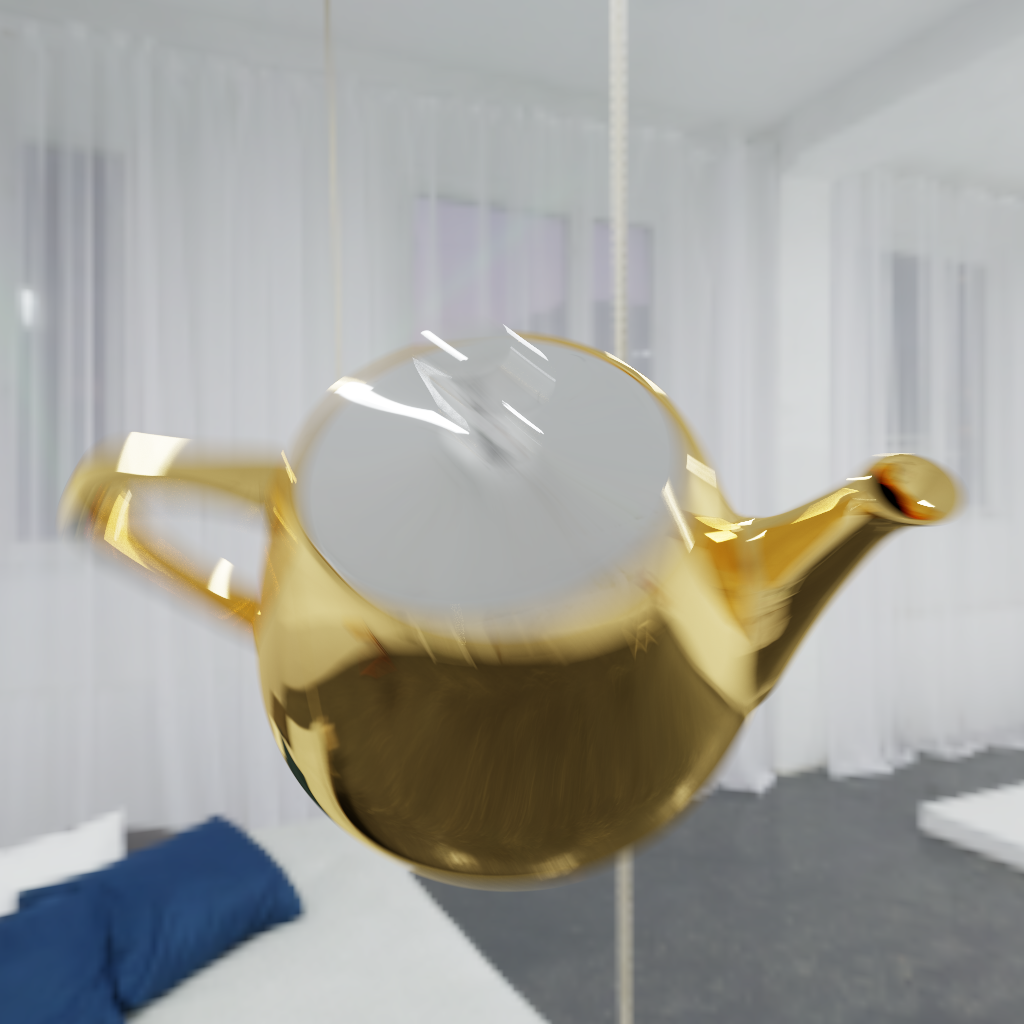
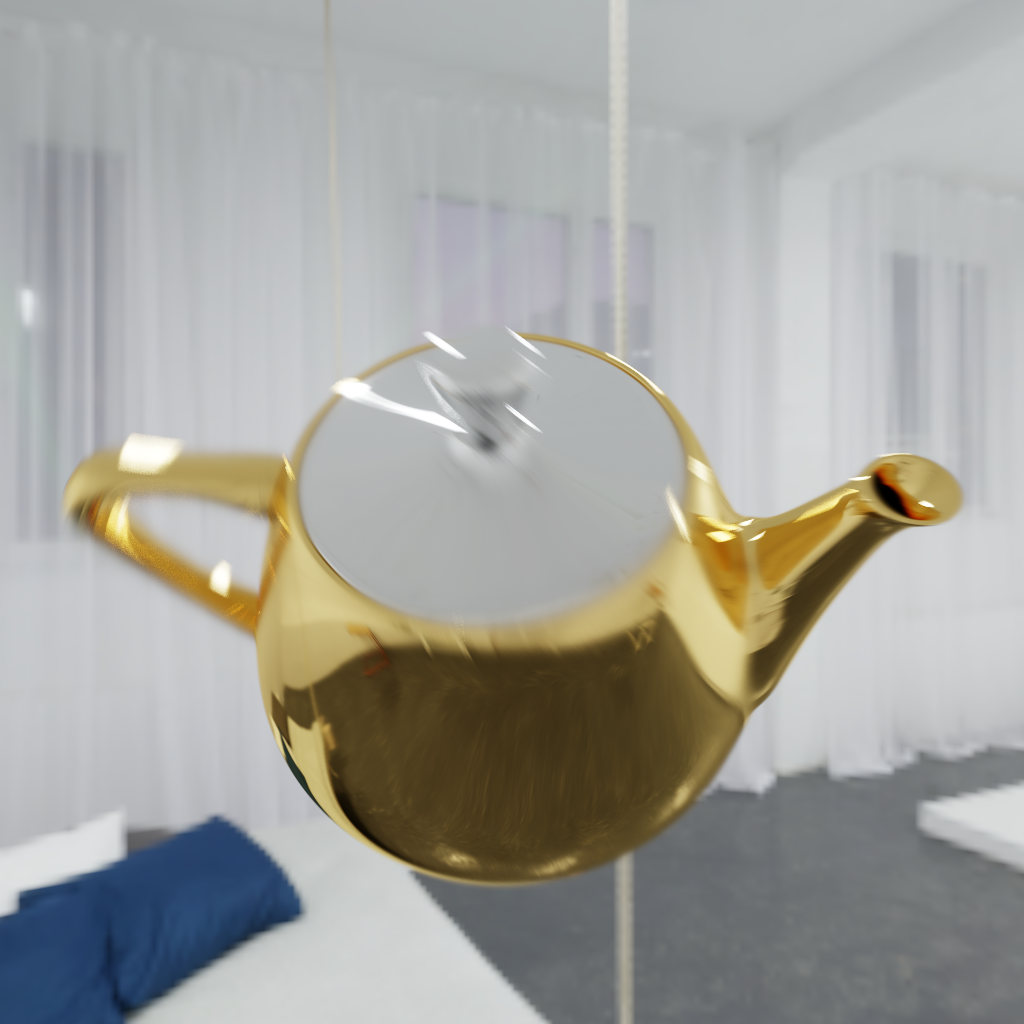
add camera curve

diff --git a/src/scene/camera.cpp b/src/scene/camera.cpp
@@ -2,6 +2,8 @@
 // Created by Mike on 2021/12/8.
 //
 
+#include <random>
+
 #include <scene/scene.h>
 #include <scene/film.h>
 #include <scene/filter.h>
@@ -45,22 +47,89 @@ Camera::Camera(Scene *scene, const SceneNodeDesc *desc) noexcept
       _spp{desc->property_uint_or_default("spp", 1024u)} {
 
     if (_shutter_span.y < _shutter_span.x) [[unlikely]] {
-        LUISA_ERROR_WITH_LOCATION(
-            "Invalid time span: [{}, {}].",
-            _shutter_span.x, _shutter_span.y);
+        LUISA_ERROR(
+            "Invalid time span: [{}, {}]. [{}]",
+            _shutter_span.x, _shutter_span.y,
+            desc->source_location().string());
     }
-    if (_shutter_samples == 0u) {
-        _shutter_samples = std::max(_spp, 1024u);
-    } else if (_shutter_samples > _spp) {
-        _shutter_samples = _spp;
+    if (_shutter_span.x != _shutter_span.y) {
+        if (_shutter_samples == 0u) {
+            _shutter_samples = std::max(_spp, 1024u);
+        } else if (_shutter_samples > _spp) {
+            LUISA_WARNING(
+                "Too many shutter samples ({}), "
+                "clamping to samples per pixel ({}). [{}]",
+                _shutter_samples, _spp,
+                desc->source_location().string());
+            _shutter_samples = _spp;
+        }
+        auto shutter_time_points = desc->property_float_list_or_default("shutter_time_points");
+        auto shutter_weights = desc->property_float_list_or_default("shutter_weights");
+        if (shutter_time_points.size() != shutter_weights.size()) [[unlikely]] {
+            LUISA_ERROR(
+                "Number of shutter time points and "
+                "number of shutter weights mismatch. [{}]",
+                desc->source_location().string());
+        }
+        if (std::any_of(shutter_weights.cbegin(), shutter_weights.cend(), [](auto w) noexcept {
+                return w < 0.0f;
+            })) [[unlikely]] {
+            LUISA_ERROR(
+                "Found negative shutter weight. [{}]",
+                desc->source_location().string());
+        }
+        if (shutter_time_points.empty()) {
+            _shutter_points.emplace_back(ShutterPoint{_shutter_span.x, 1.0f});
+            _shutter_points.emplace_back(ShutterPoint{_shutter_span.y, 1.0f});
+        } else {
+            luisa::vector<uint> indices(shutter_time_points.size());
+            std::iota(indices.begin(), indices.end(), 0u);
+            if (auto iter = std::remove_if(indices.begin(), indices.end(), [&](auto i) noexcept {
+                    auto t = shutter_time_points[i];
+                    return t < _shutter_span.x || t > _shutter_span.y;
+                });
+                iter != indices.end()) [[unlikely]] {
+                LUISA_WARNING(
+                    "Out-of-shutter samples (count = {}) "
+                    "are to be removed. [{}]",
+                    std::distance(iter, indices.end()),
+                    desc->source_location().string());
+                indices.erase(iter, indices.end());
+            }
+            std::sort(indices.begin(), indices.end(), [&](auto lhs, auto rhs) noexcept {
+                return shutter_time_points[lhs] < shutter_time_points[rhs];
+            });
+            if (auto iter = std::unique(indices.begin(), indices.end(), [&](auto lhs, auto rhs) noexcept {
+                    return shutter_time_points[lhs] == shutter_time_points[rhs];
+                });
+                iter != indices.end()) [[unlikely]] {
+                LUISA_WARNING(
+                    "Duplicate shutter samples (count = {}) "
+                    "are to be removed. [{}]",
+                    std::distance(iter, indices.end()),
+                    desc->source_location().string());
+                indices.erase(iter, indices.end());
+            }
+            _shutter_points.reserve(indices.size() + 2u);
+            _shutter_points.resize(indices.size());
+            std::transform(
+                indices.cbegin(), indices.cend(),
+                std::back_inserter(_shutter_points), [&](auto i) noexcept {
+                    return ShutterPoint{shutter_time_points[i], shutter_weights[i]};
+                });
+            if (!_shutter_points.empty()) {
+                if (auto ts = _shutter_span.x; _shutter_points.front().time > ts) {
+                    _shutter_points.insert(
+                        _shutter_points.begin(),
+                        ShutterPoint{ts, _shutter_points.front().weight});
+                }
+                if (auto te = _shutter_span.y; _shutter_points.back().time < te) {
+                    _shutter_points.emplace_back(
+                        ShutterPoint{te, _shutter_points.back().weight});
+                }
+            }
+        }
     }
-    auto shutter_time_points = desc->property_float_list_or_default(
-        "shutter_time_points", {_shutter_span.x, _shutter_span.y});
-    auto shutter_weights = desc->property_float_list_or_default(
-        "shutter_weights", {1.0f, 1.0f});
-    if (shutter_time_points.size() != shutter_weights.size()) [[unlikely]] {
-    }
-    // TODO: process shutter curve
 
     // render file
     _file = desc->property_path_or_default(
@@ -76,13 +145,58 @@ Camera::Camera(Scene *scene, const SceneNodeDesc *desc) noexcept
 }
 
 auto Camera::shutter_weight(float time) const noexcept -> float {
-    if (time <= _shutter_span.x || time >= _shutter_span.y) { return 0.0f; }
-
-    return 0.0f;
+    if (time < _shutter_span.x || time > _shutter_span.y) { return 0.0f; }
+    if (_shutter_span.x == _shutter_span.y) { return 1.0f; }
+    auto ub = std::upper_bound(
+        _shutter_points.cbegin(), _shutter_points.cend(), time,
+        [](auto lhs, auto rhs) noexcept { return lhs < rhs.time; });
+    auto u = std::distance(_shutter_points.cbegin(), ub);
+    auto p0 = _shutter_points[u - 1u];
+    auto p1 = _shutter_points[u];
+    auto t = (time - p0.time) / (p1.time - p0.time);
+    return std::lerp(p0.weight, p1.weight, t);
 }
 
 auto Camera::shutter_samples() const noexcept -> vector<ShutterSample> {
-    return vector<ShutterSample>();
+    if (_shutter_span.x == _shutter_span.y) {
+        ShutterPoint sp{_shutter_span.x, 1.0f};
+        return {ShutterSample{sp, _spp}};
+    }
+    auto duration = _shutter_span.y - _shutter_span.x;
+    auto inv_n = 1.0f / static_cast<float>(_shutter_samples);
+    std::uniform_real_distribution<float> dist{};
+    std::default_random_engine random{std::random_device{}()};
+    luisa::vector<ShutterSample> buckets(_shutter_samples);
+    for (auto bucket = 0u; bucket < _shutter_samples; bucket++) {
+        auto ts = static_cast<float>(bucket) * inv_n * duration;
+        auto te = static_cast<float>(bucket + 1u) * inv_n * duration;
+        auto a = dist(random);
+        auto t = std::lerp(ts, te, a);
+        auto w = shutter_weight(t);
+        buckets[bucket].point = ShutterPoint{t, w};
+    }
+    luisa::vector<uint> indices(_shutter_samples);
+    std::iota(indices.begin(), indices.end(), 0u);
+    std::shuffle(indices.begin(), indices.end(), random);
+    auto remainder = _spp % _shutter_samples;
+    auto samples_per_bucket = _spp / _shutter_samples;
+    for (auto i = 0u; i < remainder; i++) { buckets[indices[i]].spp = samples_per_bucket + 1u; }
+    for (auto i = remainder; i < _shutter_samples; i++) { buckets[indices[i]].spp = samples_per_bucket; }
+    auto sum_weights = std::accumulate(buckets.cbegin(), buckets.cend(), 0.0, [](auto lhs, auto rhs) noexcept {
+        return lhs + rhs.point.weight * rhs.spp;
+    });
+    if (sum_weights == 0.0) [[unlikely]] {
+        LUISA_WARNING_WITH_LOCATION(
+            "Invalid shutter samples generated. "
+            "Falling back to uniform shutter curve.");
+        for (auto &s : buckets) { s.point.weight = 1.0f; }
+    } else {
+        auto scale = _spp / sum_weights;
+        for (auto &s : buckets) {
+            s.point.weight = static_cast<float>(s.point.weight * scale);
+        }
+    }
+    return buckets;
 }
 
 }// namespace luisa::render

diff --git a/src/integrators/megakernel_path.cpp b/src/integrators/megakernel_path.cpp
@@ -76,13 +76,13 @@ void MegakernelPathTracingInstance::_render_one_camera(
         return ite(pdf_a > 0.0f, pdf_a / (pdf_a + pdf_b), 0.0f);
     };
 
-    Kernel2D render_kernel = [&](UInt frame_index, Float4x4 camera_to_world, Float3x3 camera_to_world_normal, Float3x3 env_to_world, Float time) noexcept {
+    Kernel2D render_kernel = [&](UInt frame_index, Float4x4 camera_to_world, Float3x3 camera_to_world_normal, Float3x3 env_to_world, Float time, Float shutter_weight) noexcept {
         set_block_size(8u, 8u, 1u);
 
         auto pixel_id = dispatch_id().xy();
         sampler->start(pixel_id, frame_index);
         auto pixel = make_float2(pixel_id) + 0.5f;
-        auto beta = def(make_float3(1.0f));
+        auto beta = def(make_float3(shutter_weight));
         auto [filter_offset, filter_weight] = filter->sample(*sampler);
         pixel += filter_offset;
         beta *= filter_weight;
@@ -186,25 +186,28 @@ void MegakernelPathTracingInstance::_render_one_camera(
         film->accumulate(pixel_id, Li);
         sampler->save_state();
     };
-
     auto render = pipeline.device().compile(render_kernel);
+    auto shutter_samples = camera->node()->shutter_samples();
     stream << synchronize();
+
     Clock clock;
-    auto time_start = camera->node()->shutter_span().x;
-    auto time_end = camera->node()->shutter_span().y;
-    auto spp_per_commit = 64u;
-    for (auto i = 0u; i < spp; i++) {
-        auto t = static_cast<float>((static_cast<double>(i) + 0.5f) / static_cast<double>(spp));
-        auto time = lerp(time_start, time_end, t);
-        pipeline.update_geometry(command_buffer, time);
-        auto camera_to_world = camera->node()->transform()->matrix(t);
-        auto camera_to_world_normal = transpose(inverse(make_float3x3(camera_to_world)));
-        auto env_to_world = env == nullptr || env->node()->transform()->is_identity() ?
-                                make_float3x3(1.0f) :
-                                transpose(inverse(make_float3x3(env->node()->transform()->matrix(time))));
-        command_buffer << render(i, camera_to_world, camera_to_world_normal, env_to_world, time).dispatch(resolution);
-        if (spp % spp_per_commit == spp_per_commit - 1u) [[unlikely]] {
-            command_buffer << commit();
+    auto dispatch_count = 0u;
+    auto dispatches_per_commit = 64u;
+    for (auto s : shutter_samples) {
+        for (auto i = 0u; i < s.spp; i++) {
+            if (pipeline.update_geometry(command_buffer, s.point.time)) { dispatch_count = 0u; }
+            auto camera_to_world = camera->node()->transform()->matrix(s.point.time);
+            auto camera_to_world_normal = transpose(inverse(make_float3x3(camera_to_world)));
+            auto env_to_world = env == nullptr || env->node()->transform()->is_identity() ?
+                                    make_float3x3(1.0f) :
+                                    transpose(inverse(make_float3x3(
+                                        env->node()->transform()->matrix(s.point.time))));
+            command_buffer << render(i, camera_to_world, camera_to_world_normal,
+                                     env_to_world, s.point.time, s.point.weight).dispatch(resolution);
+            if (++dispatch_count % dispatches_per_commit == 0u) [[unlikely]] {
+                command_buffer << commit();
+                dispatch_count = 0u;
+            }
         }
     }
     command_buffer << commit();

diff --git a/src/integrators/normal.cpp b/src/integrators/normal.cpp
@@ -68,11 +68,11 @@ void NormalVisualizerInstance::_render_one_camera(
     command_buffer.commit();
 
     using namespace luisa::compute;
-    Kernel2D render_kernel = [&](UInt frame_index, Float4x4 camera_to_world, Float3x3 camera_to_world_normal, Float time) noexcept {
+    Kernel2D render_kernel = [&](UInt frame_index, Float4x4 camera_to_world, Float3x3 camera_to_world_normal, Float time, Float shutter_weight) noexcept {
         auto pixel_id = dispatch_id().xy();
         sampler->start(pixel_id, frame_index);
         auto pixel = make_float2(pixel_id);
-        auto path_weight = def(make_float3(1.0f));
+        auto path_weight = def(make_float3(shutter_weight));
         auto [filter_offset, filter_weight] = filter->sample(*sampler);
         pixel += filter_offset;
         path_weight *= filter_weight;
@@ -89,19 +89,23 @@ void NormalVisualizerInstance::_render_one_camera(
         film->accumulate(pixel_id, path_weight * color);
     };
     auto render = pipeline.device().compile(render_kernel);
+    auto shutter_samples = camera->node()->shutter_samples();
     stream << synchronize();
     Clock clock;
-    auto time_start = camera->node()->shutter_span().x;
-    auto time_end = camera->node()->shutter_span().y;
-    auto spp_per_commit = 16u;
-    for (auto i = 0u; i < spp; i++) {
-        auto t = static_cast<float>((static_cast<double>(i) + 0.5f) / static_cast<double>(spp));
-        auto time = lerp(time_start, time_end, t);
-        pipeline.update_geometry(command_buffer, time);
-        auto camera_to_world = camera->node()->transform()->matrix(t);
-        auto camera_to_world_normal = transpose(inverse(make_float3x3(camera_to_world)));
-        command_buffer << render(i, camera_to_world, camera_to_world_normal, time).dispatch(resolution);
-        if (spp % spp_per_commit == spp_per_commit - 1u) [[unlikely]] { command_buffer << commit(); }
+    auto dispatch_count = 0u;
+    auto dispatches_per_commit = 64u;
+    for (auto s : shutter_samples) {
+        for (auto i = 0u; i < s.spp; i++) {
+            if (pipeline.update_geometry(command_buffer, s.point.time)) { dispatch_count = 0u; }
+            auto camera_to_world = camera->node()->transform()->matrix(s.point.time);
+            auto camera_to_world_normal = transpose(inverse(make_float3x3(camera_to_world)));
+            command_buffer << render(i, camera_to_world, camera_to_world_normal,
+                                     s.point.time, s.point.weight).dispatch(resolution);
+            if (++dispatch_count % dispatches_per_commit == 0u) [[unlikely]] {
+                command_buffer << commit();
+                dispatch_count = 0u;
+            }
+        }
     }
     command_buffer << commit();
     stream << synchronize();

diff --git a/src/scene/pipeline.cpp b/src/scene/pipeline.cpp
@@ -141,13 +141,13 @@ void Pipeline::_process_shape(
         }
         _instances.emplace_back(instance);
     } else {
-//        if (!shape->is_virtual()) {
-            _transform_tree.push(shape->transform());
-            for (auto child : shape->children()) {
-                _process_shape(command_buffer, child, shape->two_sided(), material, light);
-            }
-            _transform_tree.pop(shape->transform());
-//        }
+        //        if (!shape->is_virtual()) {
+        _transform_tree.push(shape->transform());
+        for (auto child : shape->children()) {
+            _process_shape(command_buffer, child, shape->two_sided(), material, light);
+        }
+        _transform_tree.pop(shape->transform());
+        //        }
     }
 }
 
@@ -222,29 +222,29 @@ luisa::unique_ptr<Pipeline> Pipeline::create(Device &device, Stream &stream, con
     return pipeline;
 }
 
-void Pipeline::update_geometry(CommandBuffer &command_buffer, float time) noexcept {
+bool Pipeline::update_geometry(CommandBuffer &command_buffer, float time) noexcept {
     // TODO: support deformable meshes
-    if (!_dynamic_transforms.empty()) {
-        if (_dynamic_transforms.size() < 128u) {
-            for (auto t : _dynamic_transforms) {
+    if (_dynamic_transforms.empty()) { return false; }
+    if (_dynamic_transforms.size() < 128u) {
+        for (auto t : _dynamic_transforms) {
+            _accel.set_transform(
+                t.instance_id(),
+                t.matrix(time));
+        }
+    } else {
+        ThreadPool::global().parallel(
+            _dynamic_transforms.size(),
+            [this, time](auto i) noexcept {
+                auto t = _dynamic_transforms[i];
                 _accel.set_transform(
                     t.instance_id(),
                     t.matrix(time));
-            }
-        } else {
-            ThreadPool::global().parallel(
-                _dynamic_transforms.size(),
-                [this, time](auto i) noexcept {
-                    auto t = _dynamic_transforms[i];
-                    _accel.set_transform(
-                        t.instance_id(),
-                        t.matrix(time));
-                });
-            ThreadPool::global().synchronize();
-        }
-        command_buffer << _accel.update()
-                       << luisa::compute::commit();
+            });
+        ThreadPool::global().synchronize();
     }
+    command_buffer << _accel.update()
+                   << luisa::compute::commit();
+    return true;
 }
 
 void Pipeline::render(Stream &stream) noexcept {

diff --git a/src/scene/pipeline.h b/src/scene/pipeline.h
@@ -191,7 +191,7 @@ public:
     [[nodiscard]] auto environment() const noexcept { return _environment.get(); }
     [[nodiscard]] auto light_sampler() const noexcept { return _light_sampler.get(); }
     [[nodiscard]] auto mean_time() const noexcept { return _mean_time; }
-    void update_geometry(CommandBuffer &command_buffer, float time) noexcept;
+    bool update_geometry(CommandBuffer &command_buffer, float time) noexcept;
     void render(Stream &stream) noexcept;
 
     template<typename T, typename I>

diff --git a/src/transforms/lerp.cpp b/src/transforms/lerp.cpp
@@ -54,7 +54,7 @@ public:
             LUISA_WARNING(
                 "Duplicate time points (count = {}) in "
                 "LerpTransform will be removed. [{}]",
-                indices.end() - iter,
+                std::distance(iter, indices.end()),
                 desc->source_location().string());
             indices.erase(iter, indices.end());
         }
